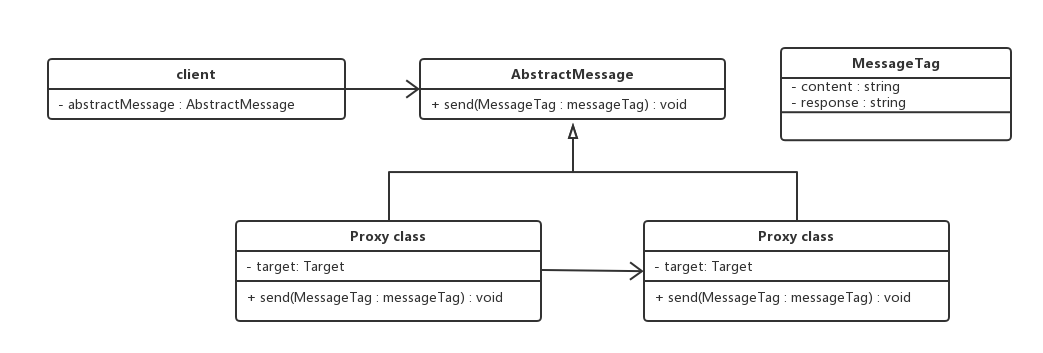
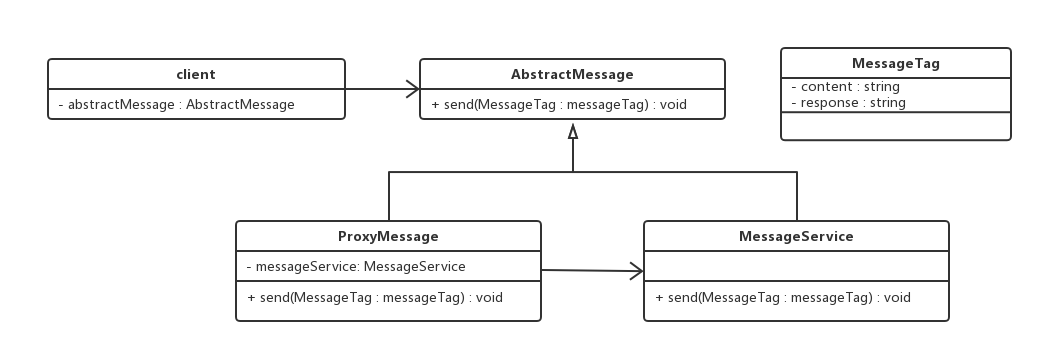
代理模式，区分动态代理、静态代理

diff --git a/src/main/java/com/design/proxy/dynamicproxy/jdkproxy/ProxyMessage.java b/src/main/java/com/design/proxy/dynamicproxy/jdkproxy/ProxyMessage.java
@@ -1,0 +1,30 @@
+package com.design.proxy.dynamicproxy.jdkproxy;
+
+import com.design.proxy.staticproxy.model.MessageTag;
+
+import java.lang.reflect.InvocationHandler;
+import java.lang.reflect.Method;
+import java.lang.reflect.Proxy;
+
+/**
+ * @author 张博 [zhangb@novadeep.com]
+ */
+public class ProxyMessage implements InvocationHandler {
+
+    private Object targetProxy;
+
+    public Object newInstance(Object targetProxy) {
+        this.targetProxy = targetProxy;
+        return Proxy.newProxyInstance(targetProxy.getClass().getClassLoader(), targetProxy.getClass().getInterfaces(), this);
+    }
+
+    @Override
+    public Object invoke(Object proxy, Method method, Object[] args) throws Throwable {
+        System.out.println("准备参数....开始向服务端发消息");
+        method.invoke(targetProxy, args);
+        System.out.println("消息发送完毕，开始接收服务端的消息");
+        MessageTag messageTag = (MessageTag)args[0];
+        System.out.println(messageTag.getResponseContent());
+        return null;
+    }
+}

diff --git a/src/main/java/com/design/proxy/dynamicproxy/jdkproxy/Client.java b/src/main/java/com/design/proxy/dynamicproxy/jdkproxy/Client.java
@@ -1,0 +1,17 @@
+package com.design.proxy.dynamicproxy.jdkproxy;
+
+import com.design.proxy.dynamicproxy.jdkproxy.message.IMessage;
+import com.design.proxy.staticproxy.model.MessageTag;
+
+/**
+ * @author 张博 [zhangb@novadeep.com]
+ */
+public class Client {
+    public static void main(String[] args) {
+        ProxyMessage proxyMessage = new ProxyMessage();
+        MessageTag messageTag = new MessageTag();
+        messageTag.setClientContent("你是什么品种的猪，怎么这么凶");
+        IMessage iMessage = (IMessage) proxyMessage.newInstance(new MessageService());
+        iMessage.send(messageTag);
+    }
+}

diff --git a/src/main/java/com/design/proxy/dynamicproxy/jdkproxy/MessageService.java b/src/main/java/com/design/proxy/dynamicproxy/jdkproxy/MessageService.java
@@ -1,0 +1,16 @@
+package com.design.proxy.dynamicproxy.jdkproxy;
+
+import com.design.proxy.dynamicproxy.jdkproxy.message.IMessage;
+import com.design.proxy.staticproxy.model.MessageTag;
+
+/**
+ * @author 张博 [zhangb@novadeep.com]
+ */
+public class MessageService implements IMessage {
+
+    @Override
+    public void send(MessageTag messageTag) {
+        System.out.println("接收客户端消息：".concat(messageTag.getClientContent()));
+        messageTag.setResponseContent("目标对象返回的消息-> 服务端已接收：".concat(messageTag.getClientContent()));
+    }
+}

diff --git a/src/main/java/com/design/proxy/staticproxy/message/AbstractMessage.java b/src/main/java/com/design/proxy/staticproxy/message/AbstractMessage.java
@@ -1,0 +1,18 @@
+package com.design.proxy.staticproxy.message;
+
+import com.design.proxy.staticproxy.model.MessageTag;
+
+/**
+ * @author 张博 [zhangb@novadeep.com]
+ * @since 2018/10/11 10:59 AM
+ */
+public abstract class AbstractMessage {
+
+    /**
+     * 创建人：张博 [zhangb@novadeep.com]
+     * 时间：2018/10/11 4:48 PM
+     * @param messageTag 消息包
+     * @apiNote 发送消息
+     */
+    public void send(MessageTag messageTag){}
+}

diff --git a/src/main/java/com/design/proxy/dynamicproxy/jdkproxy/message/IMessage.java b/src/main/java/com/design/proxy/dynamicproxy/jdkproxy/message/IMessage.java
@@ -1,0 +1,17 @@
+package com.design.proxy.dynamicproxy.jdkproxy.message;
+
+import com.design.proxy.staticproxy.model.MessageTag;
+
+/**
+ * @author 张博【zhangb@lianliantech.cn】
+ */
+public interface IMessage {
+
+    /**
+     * 创建人：张博 [zhangb@novadeep.com]
+     * 时间：2018/10/11 4:48 PM
+     * @param messageTag 消息包
+     * @apiNote 发送消息
+     */
+    void send(MessageTag messageTag);
+}

diff --git a/src/main/java/com/design/proxy/staticproxy/Client.java b/src/main/java/com/design/proxy/staticproxy/Client.java
@@ -1,10 +1,12 @@
-package com.design.proxy.code;
+package com.design.proxy.staticproxy;
 
-import com.design.proxy.code.message.AbstractMessage;
-import com.design.proxy.code.model.MessageTag;
+import com.design.proxy.staticproxy.message.AbstractMessage;
+import com.design.proxy.staticproxy.model.MessageTag;
 
 /**
  * @author 张博【zhangb@lianliantech.cn】
+ *
+ * 静态代理实现
  */
 public class Client {
 

diff --git a/src/main/java/com/design/proxy/staticproxy/MessageService.java b/src/main/java/com/design/proxy/staticproxy/MessageService.java
@@ -1,7 +1,7 @@
-package com.design.proxy.code;
+package com.design.proxy.staticproxy;
 
-import com.design.proxy.code.message.AbstractMessage;
-import com.design.proxy.code.model.MessageTag;
+import com.design.proxy.staticproxy.message.AbstractMessage;
+import com.design.proxy.staticproxy.model.MessageTag;
 
 /**
  * @author 张博【zhangb@lianliantech.cn】

diff --git a/src/main/java/com/design/proxy/staticproxy/ProxyMessage.java b/src/main/java/com/design/proxy/staticproxy/ProxyMessage.java
@@ -1,7 +1,7 @@
-package com.design.proxy.code;
+package com.design.proxy.staticproxy;
 
-import com.design.proxy.code.message.AbstractMessage;
-import com.design.proxy.code.model.MessageTag;
+import com.design.proxy.staticproxy.message.AbstractMessage;
+import com.design.proxy.staticproxy.model.MessageTag;
 
 /**
  * @author 张博【zhangb@lianliantech.cn】

diff --git a/src/main/java/com/design/proxy/staticproxy/model/MessageTag.java b/src/main/java/com/design/proxy/staticproxy/model/MessageTag.java
@@ -1,4 +1,4 @@
-package com.design.proxy.code.model;
+package com.design.proxy.staticproxy.model;
 
 import io.swagger.annotations.ApiModel;
 import io.swagger.annotations.ApiModelProperty;

diff --git a/src/main/java/com/design/proxy/README.md b/src/main/java/com/design/proxy/README.md
@@ -1,2 +1,3 @@
 #### 使用场景
 客户端不直接访问服务端对象，由代理对象访问服务端对象，在代理对象访问服务端的方法时，可以在其调用前后做一些其它操作。一定程度上起到了解耦的作用。
+
